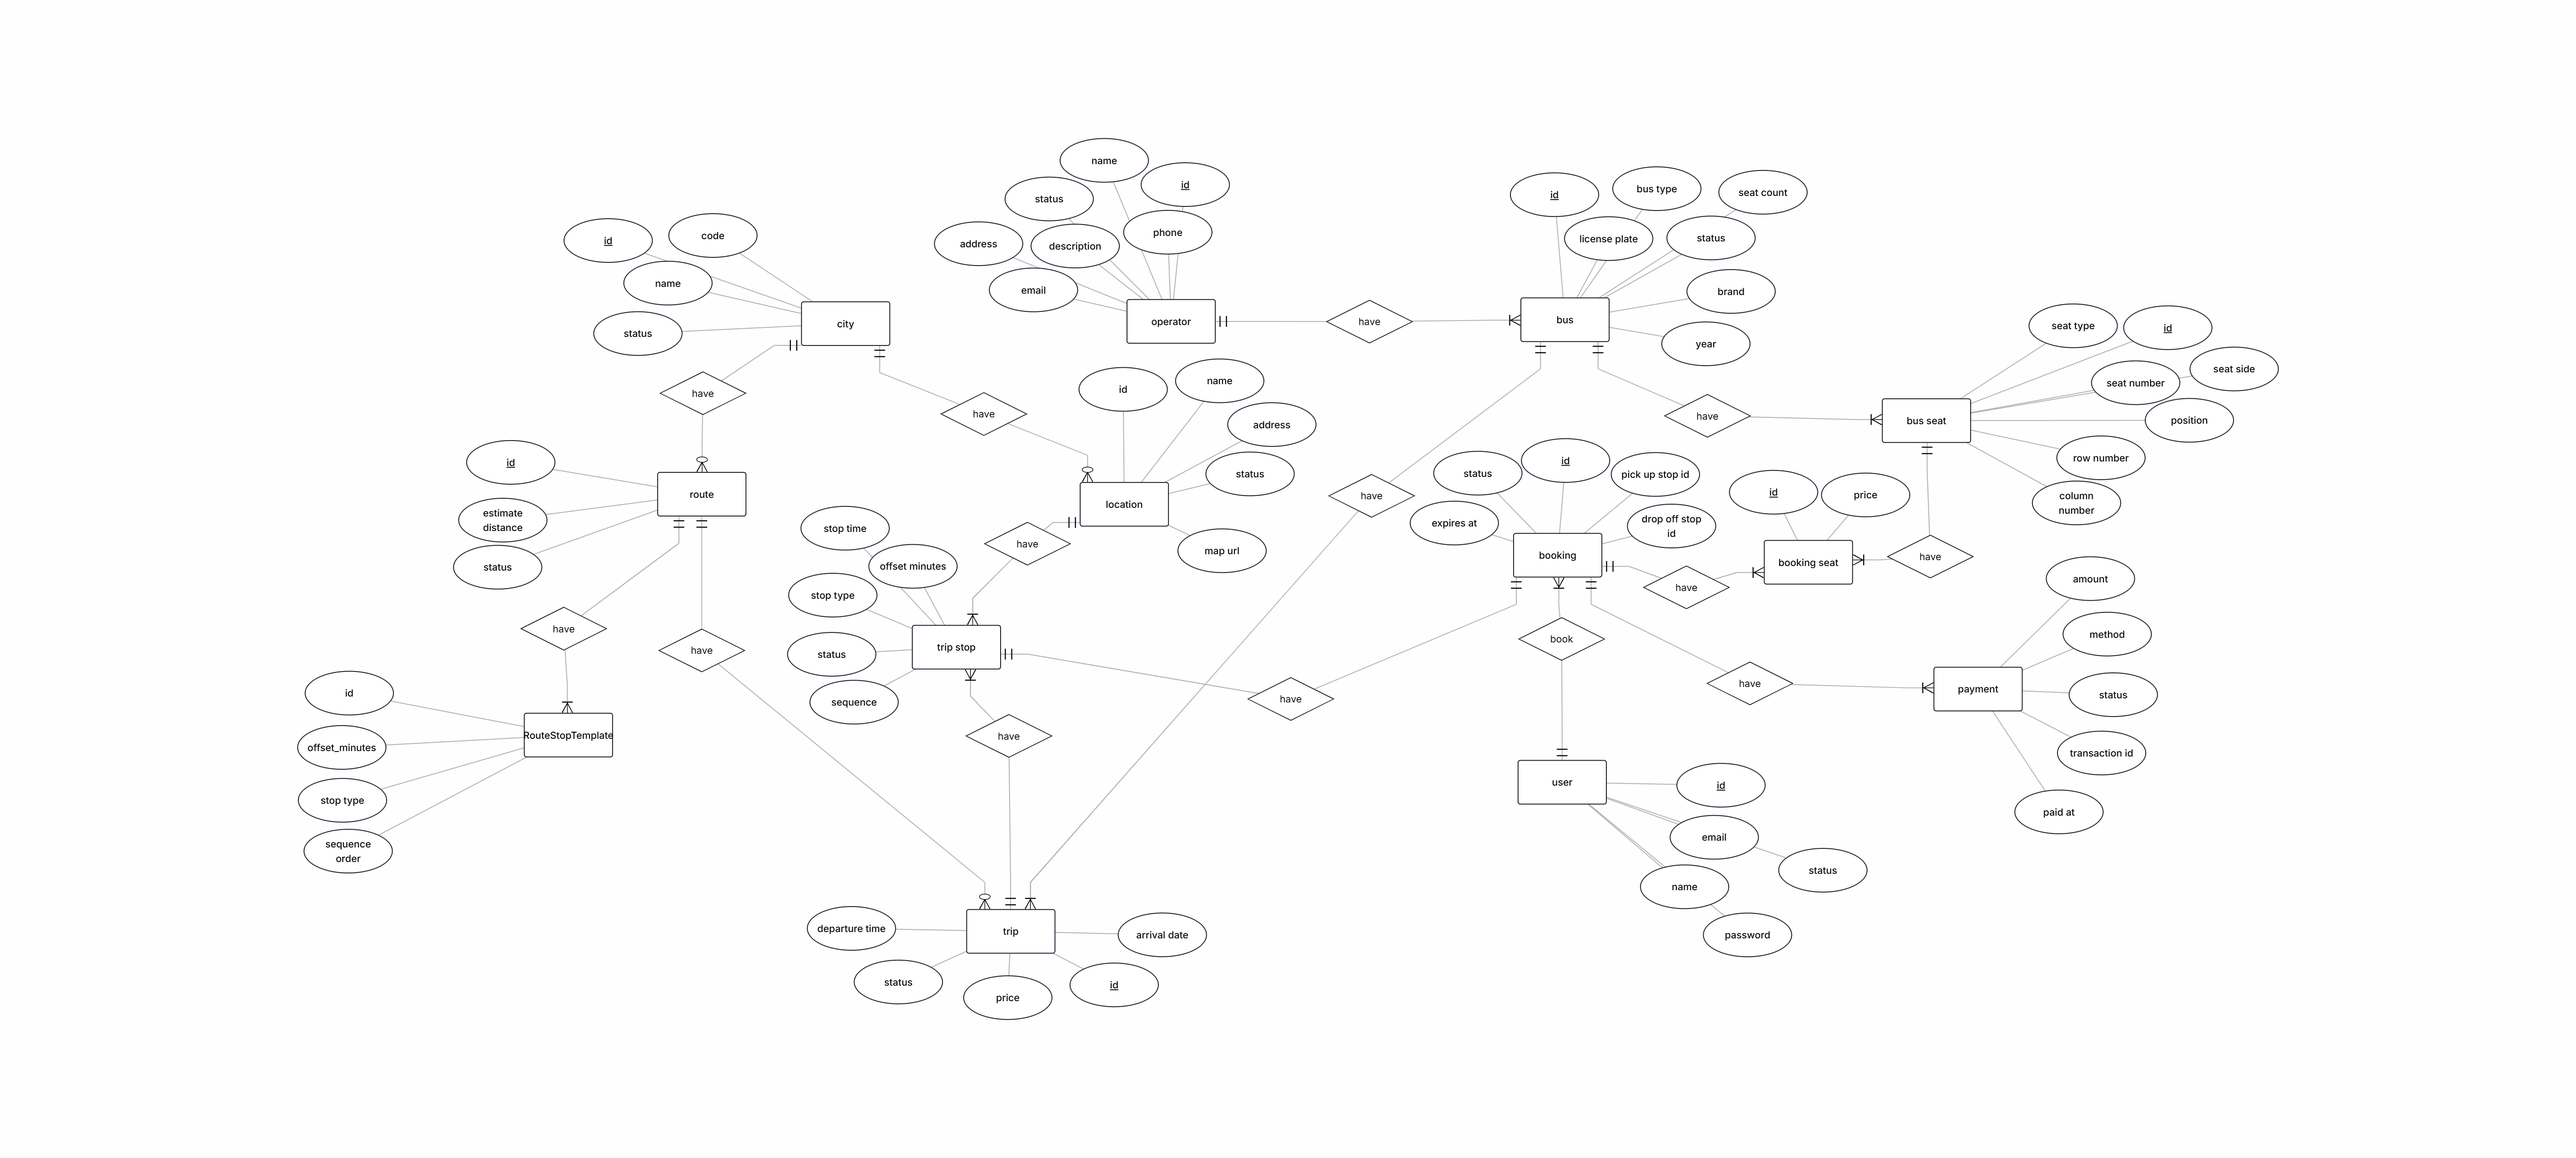
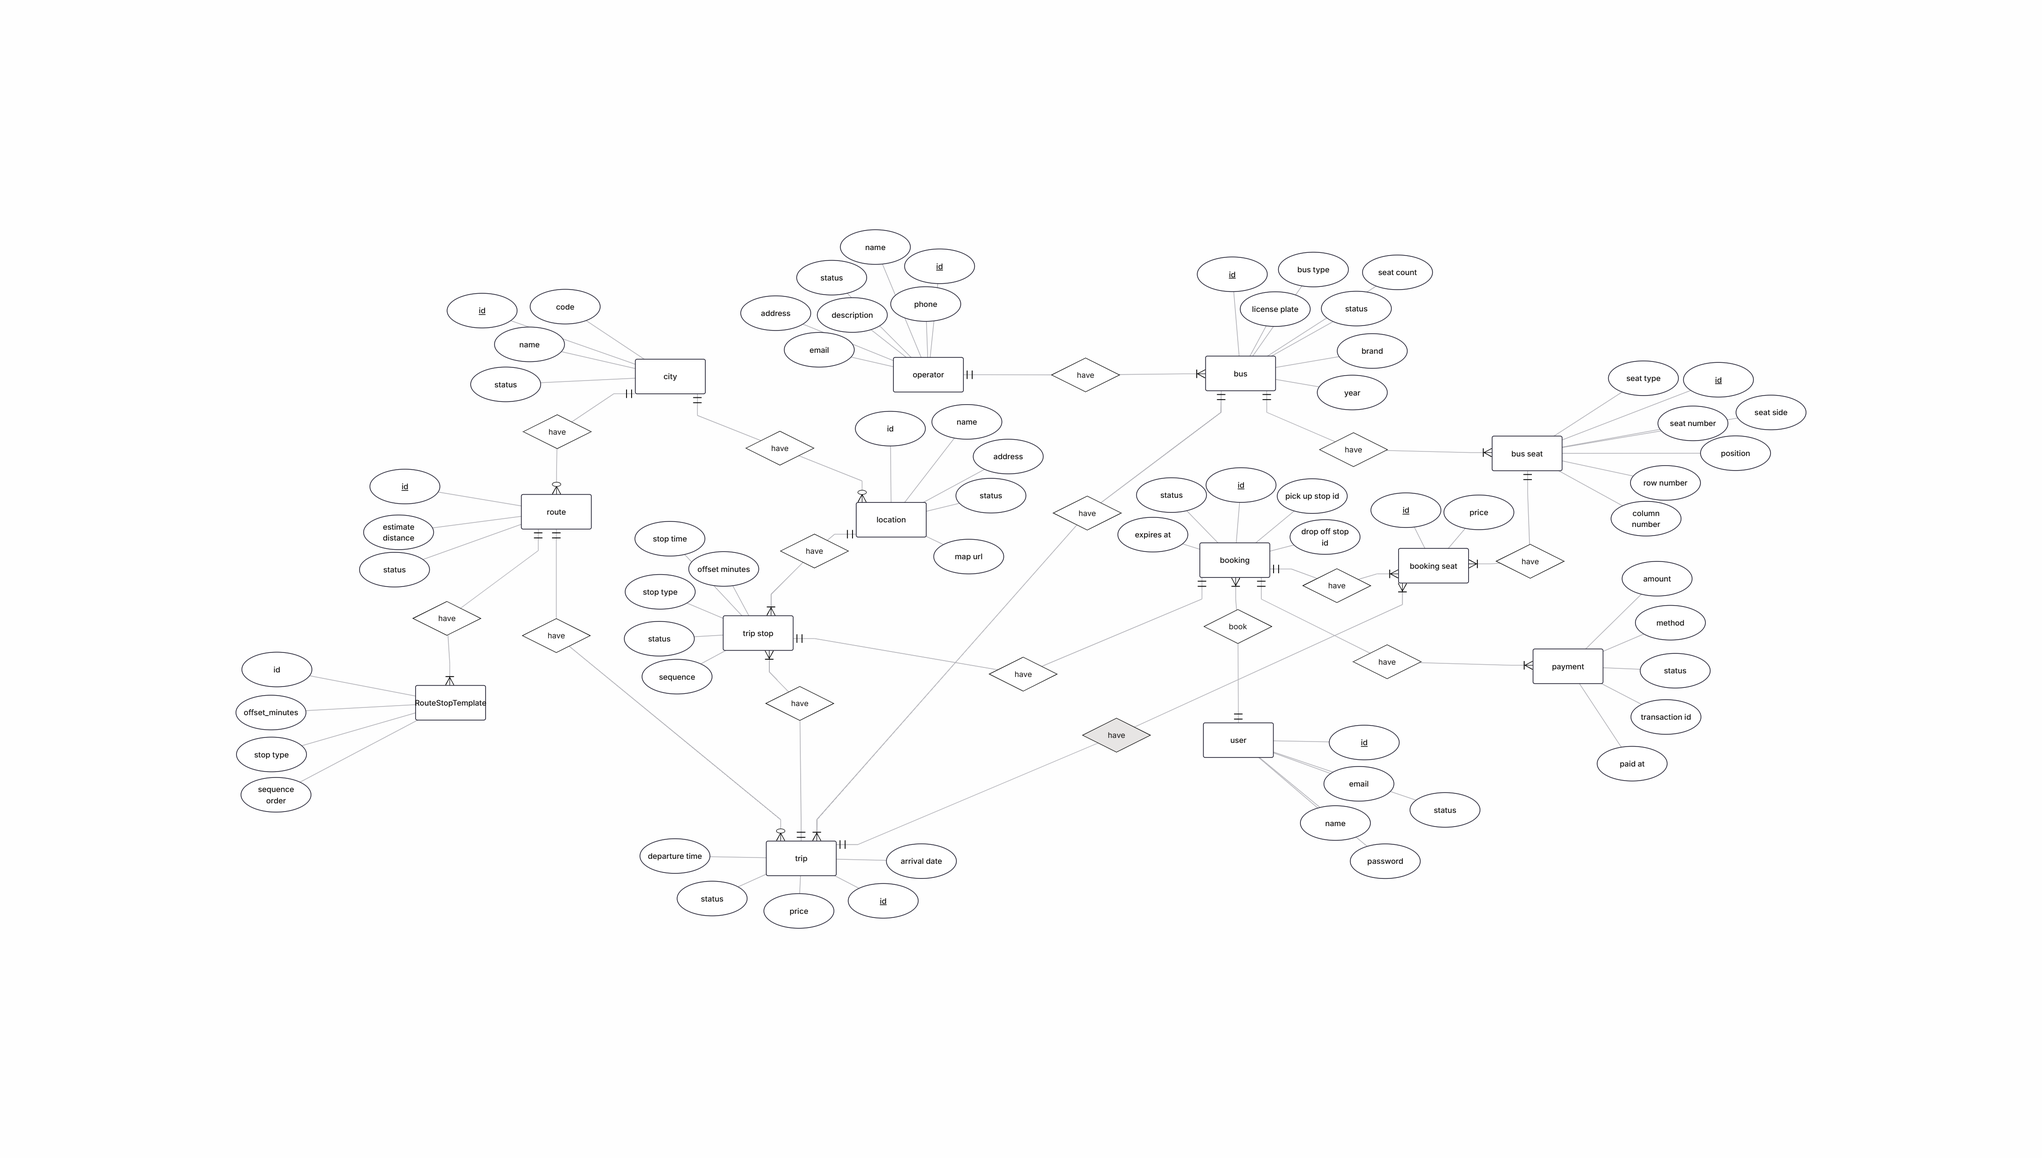
learn system design

diff --git a/backend/src/main/java/com/busticket/booking/BookingSeat.java b/backend/src/main/java/com/busticket/booking/BookingSeat.java
@@ -1,6 +1,7 @@
 package com.busticket.booking;
 
 import com.busticket.busSeat.BusSeat;
+import com.busticket.trip.Trip;
 import jakarta.persistence.*;
 import lombok.*;
 
@@ -8,7 +9,15 @@ import java.math.BigDecimal;
 import java.util.UUID;
 
 @Entity
-@Table(name = "booking_seat")
+@Table(
+        name = "booking_seat",
+        uniqueConstraints = {
+                @UniqueConstraint(
+                        name = "uk_booking_seat_trip_seat",
+                        columnNames = {"trip_id", "bus_seat_id"}
+                )
+        }
+)
 @Getter
 @Setter
 @NoArgsConstructor
@@ -21,11 +30,16 @@ public class BookingSeat {
     @Column(columnDefinition = "uuid", updatable = false, nullable = false)
     private UUID id;
 
+    @Column(nullable = false)
     private BigDecimal price;
 
     @ManyToOne(fetch = FetchType.LAZY)
     @JoinColumn(name = "booking_id", nullable = false)
     private Booking booking;
+
+    @ManyToOne(fetch = FetchType.LAZY)
+    @JoinColumn(name = "trip_id", nullable = false)
+    private Trip trip;
 
     @ManyToOne(fetch = FetchType.LAZY)
     @JoinColumn(name = "bus_seat_id", nullable = false)

diff --git a/doc/Log/10_09_2026.md b/doc/Log/10_09_2026.md
@@ -1,0 +1,23 @@
+1. thêm trip vào booking seat và chỉnh thành unique để tránh hiện tượng 1 trip mà có 2 ghế booking trùng trong db
+2. dùng redis để cache lại việc giữ ghế của user và db sẽ nguồn kiểm tra nếu redis die
+3. luồng hoạt động là: 
+
+User chọn ghế
+       ↓
+Frontend giữ selection
+       ↓
+User bấm Continue
+       ↓
+Redis SET NX + TTL
+       ↓
+Hold thành công
+       ↓
+Tạo Booking PENDING
+       ↓
+Tạo BookingSeat
+       ↓
+Payment
+       ↓
+Payment SUCCESS
+       ↓
+Booking CONFIRMED
